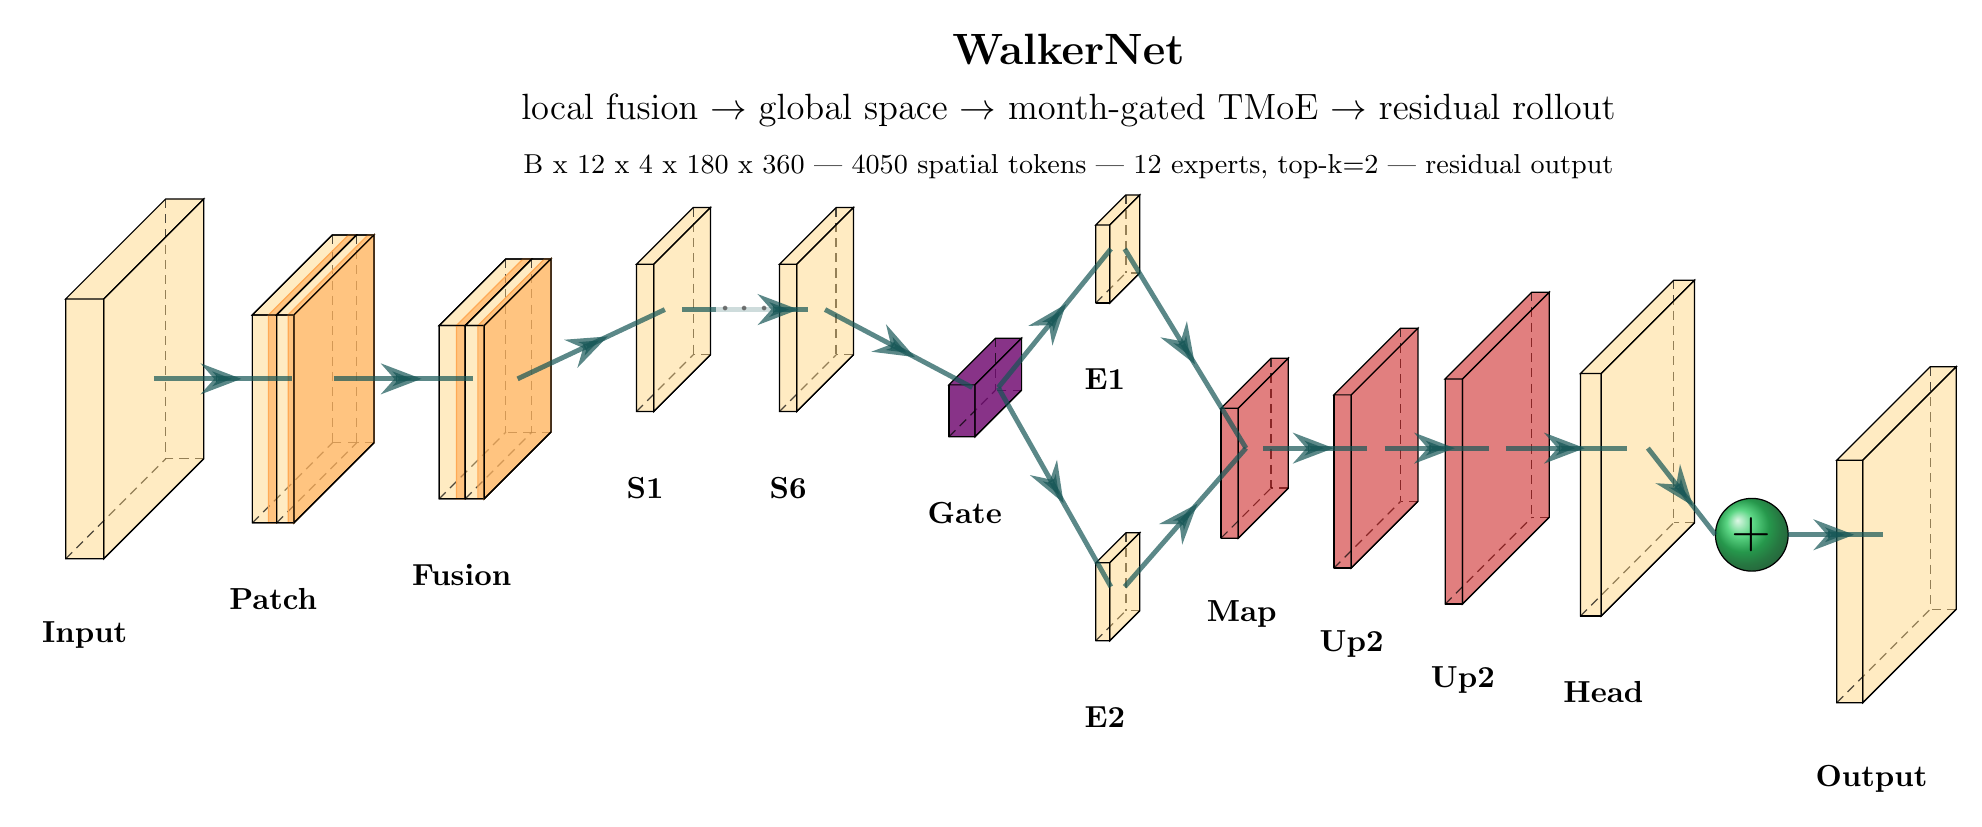
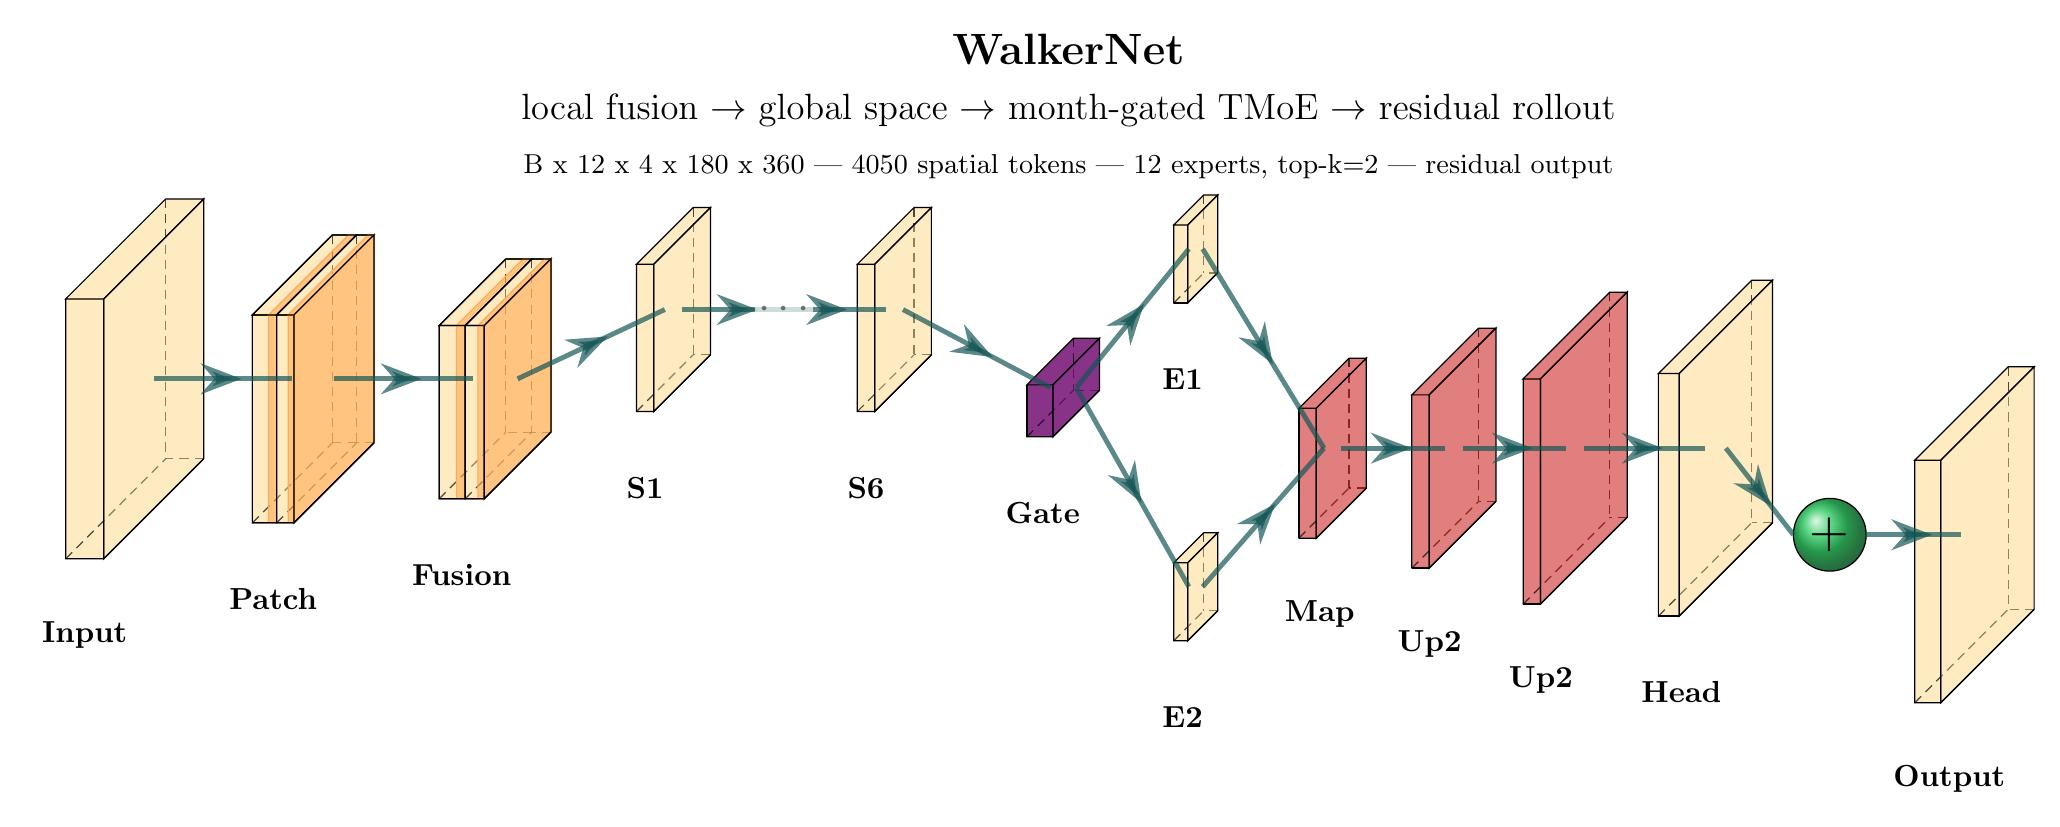
Widen spatial stack and split ellipsis arrows

diff --git a/scripts/plotting/walkernet_plotneuralnet.py b/scripts/plotting/walkernet_plotneuralnet.py
@@ -66,11 +66,11 @@ def main() -> None:
             width=1.0, height=8.5, depth=8.5, caption="S1",
         ),
         to_Conv(
-            "spatial6", s_filer="4050", n_filer="256", offset="(1.45,0,0)", to="(spatial1-east)",
+            "spatial6", s_filer="4050", n_filer="256", offset="(2.35,0,0)", to="(spatial1-east)",
             width=1.0, height=8.5, depth=8.5, caption="S6",
         ),
         to_connection("fusion", "spatial1"),
-        r"\draw [connection] (spatial1-east) -- node[midway,sloped=false,font=\Large\bfseries,text=black!75,fill=white,inner sep=1pt] {$\cdots$} node[pos=0.78] {\midarrow} (spatial6-west);",
+        r"\draw [connection] (spatial1-east) -- node[pos=0.28] {\midarrow} node[pos=0.50,sloped=false,font=\Large\bfseries,text=black!75,fill=white,inner sep=1pt] {$\cdots$} node[pos=0.72] {\midarrow} (spatial6-west);",
         # Month gate and top-2 routing.
         to_SoftMax("gate", s_filer="month", offset="(1.7,-0.9,0)", to="(spatial6-east)", width=1.5, height=3.0, depth=7.0, caption="Gate"),
         to_connection("spatial6", "gate"),

diff --git a/figures/walkernet_plotneuralnet.tex b/figures/walkernet_plotneuralnet.tex
@@ -71,7 +71,7 @@
         }
     };
 
-\pic[shift={(1.45,0,0)}] at (spatial1-east) 
+\pic[shift={(2.35,0,0)}] at (spatial1-east) 
     {Box={
         name=spatial6,
         caption=S6,
@@ -83,7 +83,7 @@
     };
 
 \draw [connection]  (fusion-east)    -- node {\midarrow} (spatial1-west);
-\draw [connection] (spatial1-east) -- node[midway,sloped=false,font=\Large\bfseries,text=black!75,fill=white,inner sep=1pt] {$\cdots$} node[pos=0.78] {\midarrow} (spatial6-west);
+\draw [connection] (spatial1-east) -- node[pos=0.28] {\midarrow} node[pos=0.50,sloped=false,font=\Large\bfseries,text=black!75,fill=white,inner sep=1pt] {$\cdots$} node[pos=0.72] {\midarrow} (spatial6-west);
 \pic[shift={(1.7,-0.9,0)}] at (spatial6-east) 
     {Box={
         name=gate,
